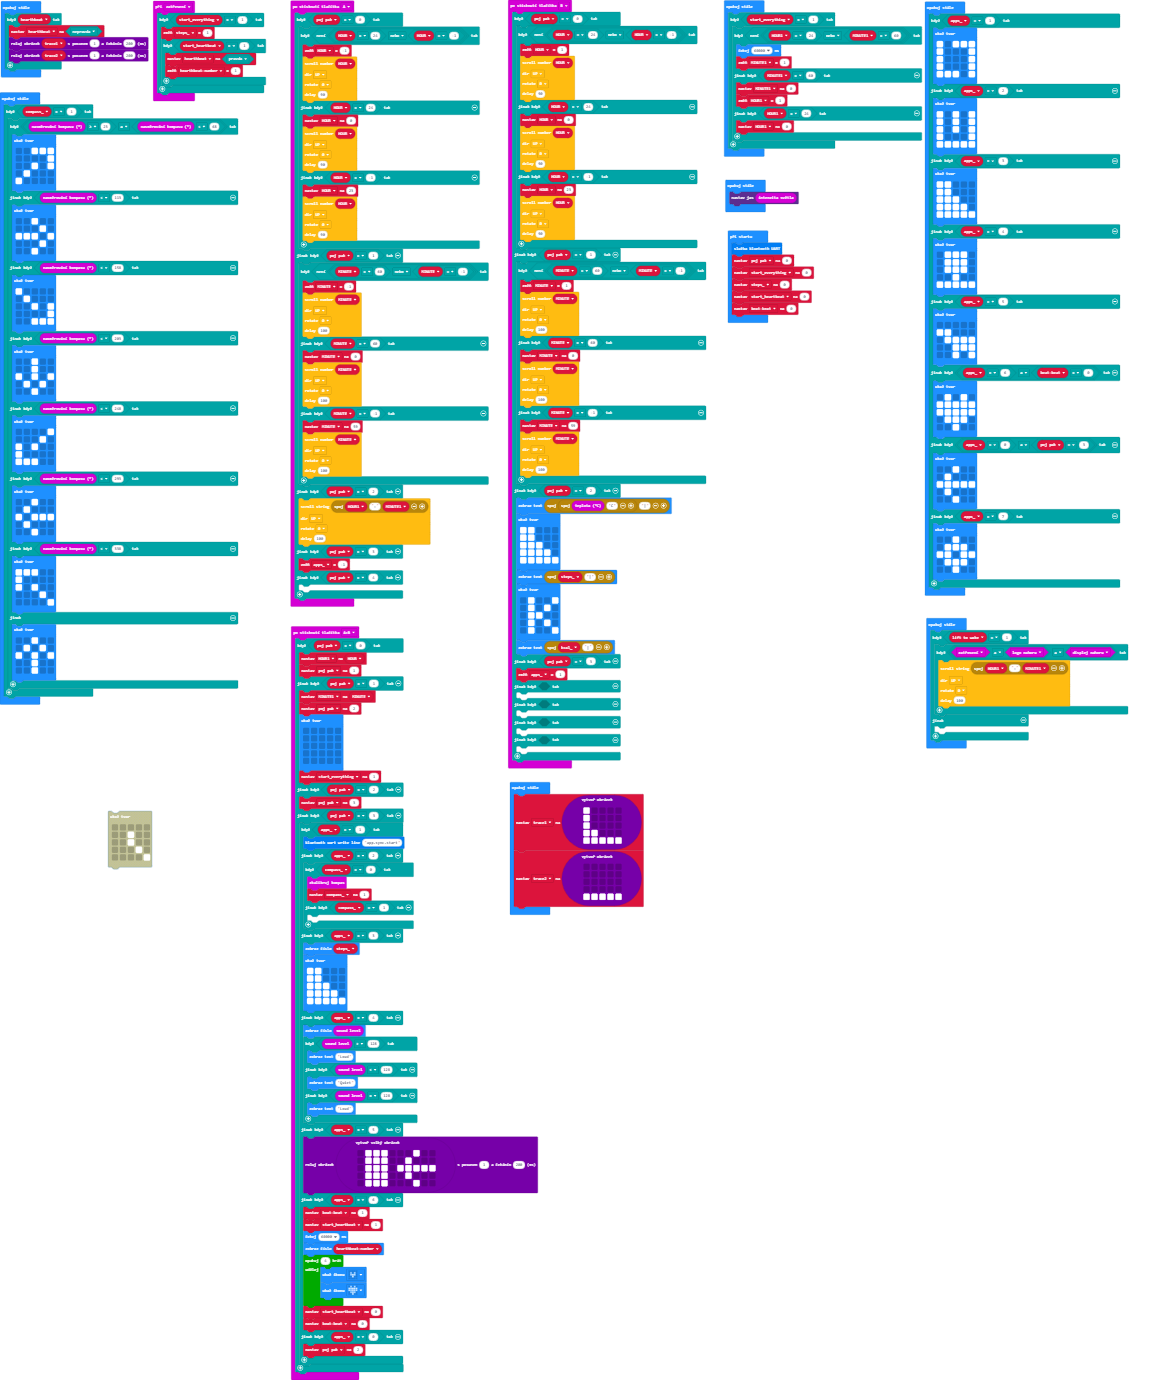
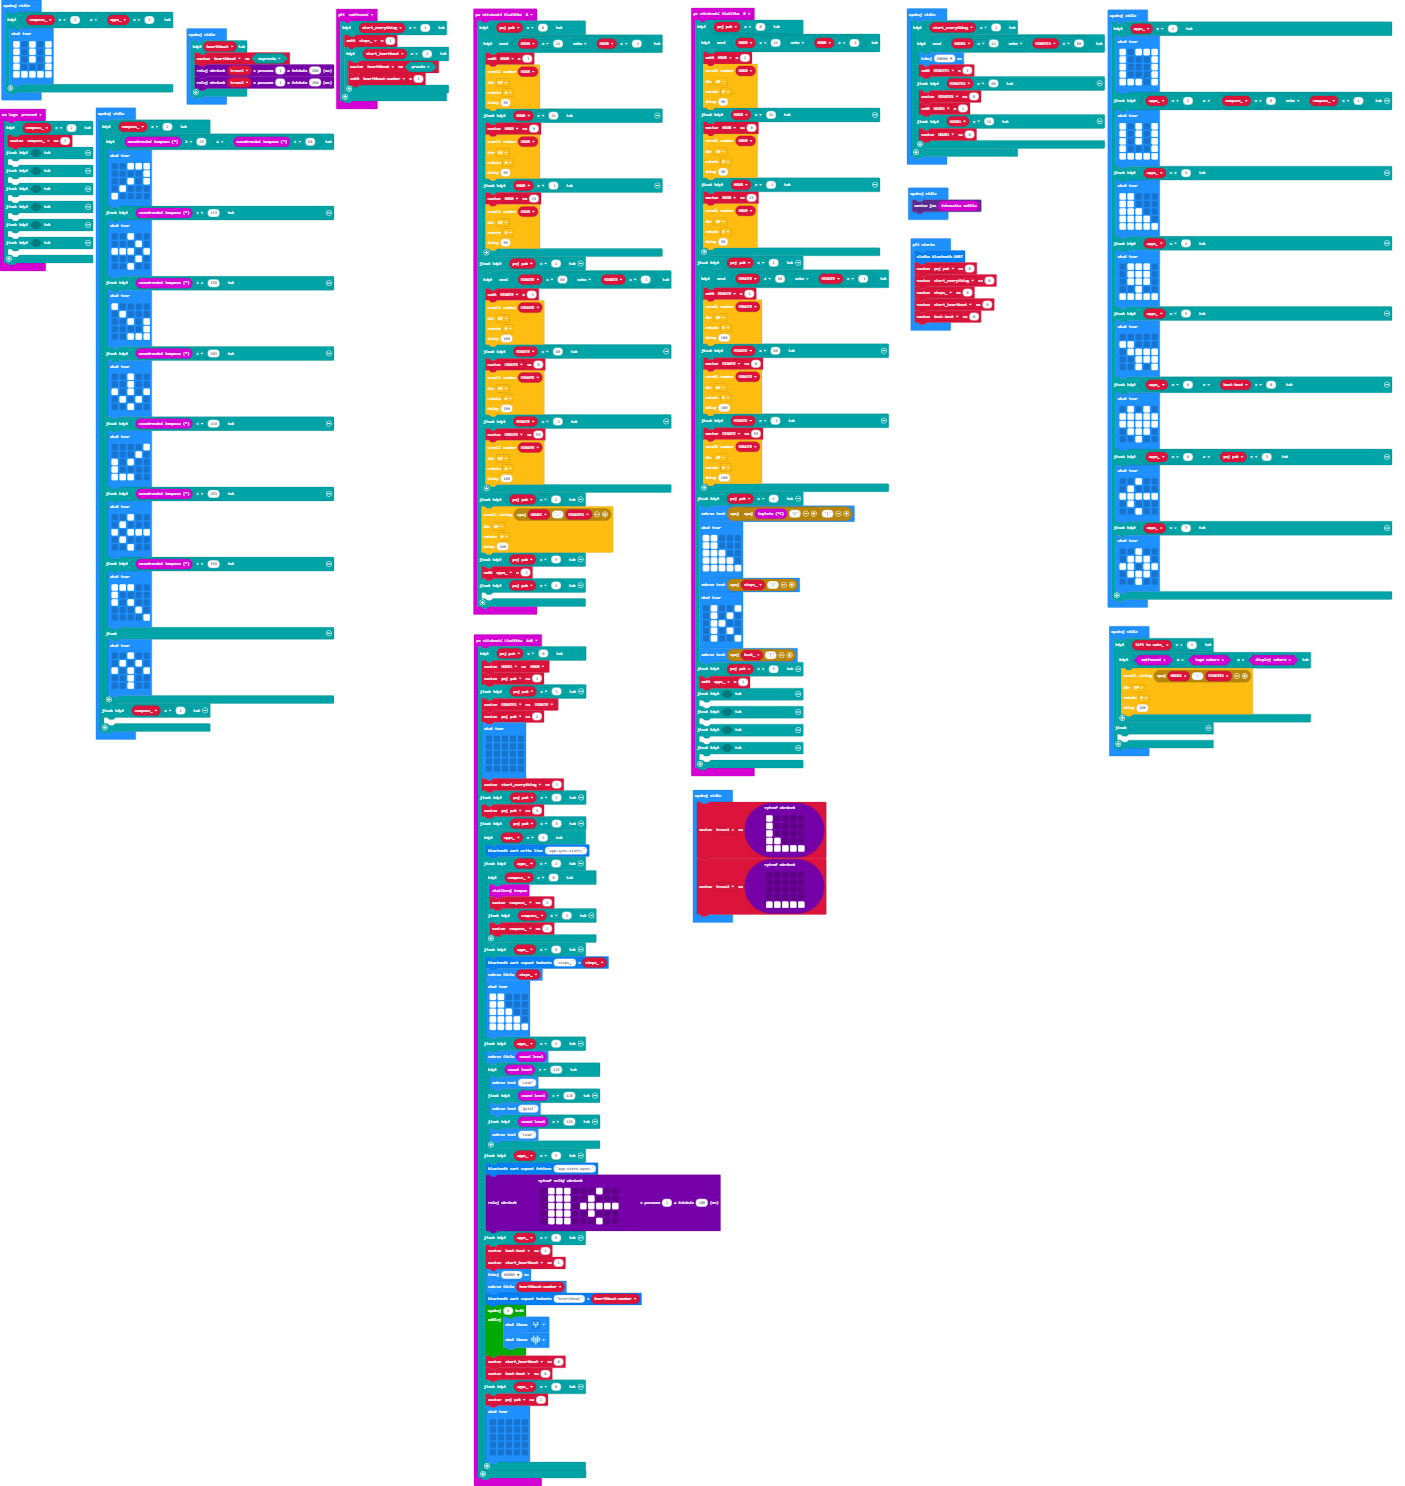
Aktualizovat main.blocks, main.ts

diff --git a/main.ts b/main.ts
@@ -83,15 +83,16 @@ input.onButtonPressed(Button.AB, function () {
         poj_pak = 3
     } else if (poj_pak == 3) {
         if (apps_ == 1) {
-            bluetooth.uartWriteLine("app.sync.start")
+            bluetooth.uartWriteLine("app.sync.start;")
         } else if (apps_ == 2) {
             if (compass_ == 0) {
                 input.calibrateCompass()
                 compass_ = 1
             } else if (compass_ == 1) {
-            	
+                compass_ = 2
             }
         } else if (apps_ == 3) {
+            bluetooth.uartWriteValue("steps_", steps_)
             basic.showNumber(steps_)
             basic.showLeds(`
                 # # . . .
@@ -110,6 +111,7 @@ input.onButtonPressed(Button.AB, function () {
                 basic.showString("Loud")
             }
         } else if (apps_ == 5) {
+            bluetooth.uartWriteString("app.store.open;")
             images.createBigImage(`
                 . # # # . . . # . .
                 . # # # . . # . . .
@@ -122,6 +124,7 @@ input.onButtonPressed(Button.AB, function () {
             start_heartbeat = 1
             basic.pause(60000)
             basic.showNumber(hearthbeatnumber)
+            bluetooth.uartWriteValue("hearthbeat", hearthbeatnumber)
             for (let index = 0; index < 4; index++) {
                 basic.showIcon(IconNames.SmallHeart)
                 basic.showIcon(IconNames.Heart)
@@ -130,6 +133,13 @@ input.onButtonPressed(Button.AB, function () {
             beatbeat = 0
         } else if (apps_ == 0) {
             poj_pak = 2
+            basic.showLeds(`
+                . . . . .
+                . . . . .
+                . . . . .
+                . . . . .
+                . . . . .
+                `)
         }
     }
 })
@@ -226,6 +236,23 @@ input.onGesture(Gesture.Shake, function () {
         }
     }
 })
+input.onLogoEvent(TouchButtonEvent.Pressed, function () {
+    if (compass_ == 2) {
+        compass_ = 1
+    } else if (false) {
+    	
+    } else if (false) {
+    	
+    } else if (false) {
+    	
+    } else if (false) {
+    	
+    } else if (false) {
+    	
+    } else if (false) {
+    	
+    }
+})
 let trace2: Image = null
 let trace1: Image = null
 let hearthbeat = false
@@ -247,6 +274,17 @@ start_everything = 0
 steps_ = 0
 start_heartbeat = 0
 beatbeat = 0
+basic.forever(function () {
+    if (compass_ == 1 && apps_ == 2) {
+        basic.showLeds(`
+            # . # . #
+            # . # . #
+            # . # . #
+            # . . . #
+            # # # # #
+            `)
+    }
+})
 basic.forever(function () {
     if (hearthbeat) {
         hearthbeat = false
@@ -276,7 +314,7 @@ basic.forever(function () {
             # . . . #
             # # # . #
             `)
-    } else if (apps_ == 2) {
+    } else if (apps_ == 2 && (compass_ == 0 || compass_ == 1)) {
         basic.showLeds(`
             # . # . #
             # . # . #
@@ -335,7 +373,7 @@ basic.forever(function () {
     }
 })
 basic.forever(function () {
-    if (compass_ == 1) {
+    if (compass_ == 2) {
         if (input.compassHeading() >= 23 && input.compassHeading() < 68) {
             basic.showLeds(`
                 . . # # #
@@ -401,14 +439,16 @@ basic.forever(function () {
                 . . # . .
                 `)
         }
+    } else if (compass_ == 1) {
+    	
     }
 })
 basic.forever(function () {
     led.setBrightness(input.lightLevel())
 })
 basic.forever(function () {
-    let lift_to_wake = 0
-    if (lift_to_wake == 1) {
+    let lift_to_wake_ = 0
+    if (lift_to_wake_ == 1) {
         if (input.isGesture(Gesture.Shake) && input.isGesture(Gesture.LogoUp) && input.isGesture(Gesture.ScreenUp)) {
             ScrolText.showString(
             "" + HOUR1 + ":" + MINUTE1,
